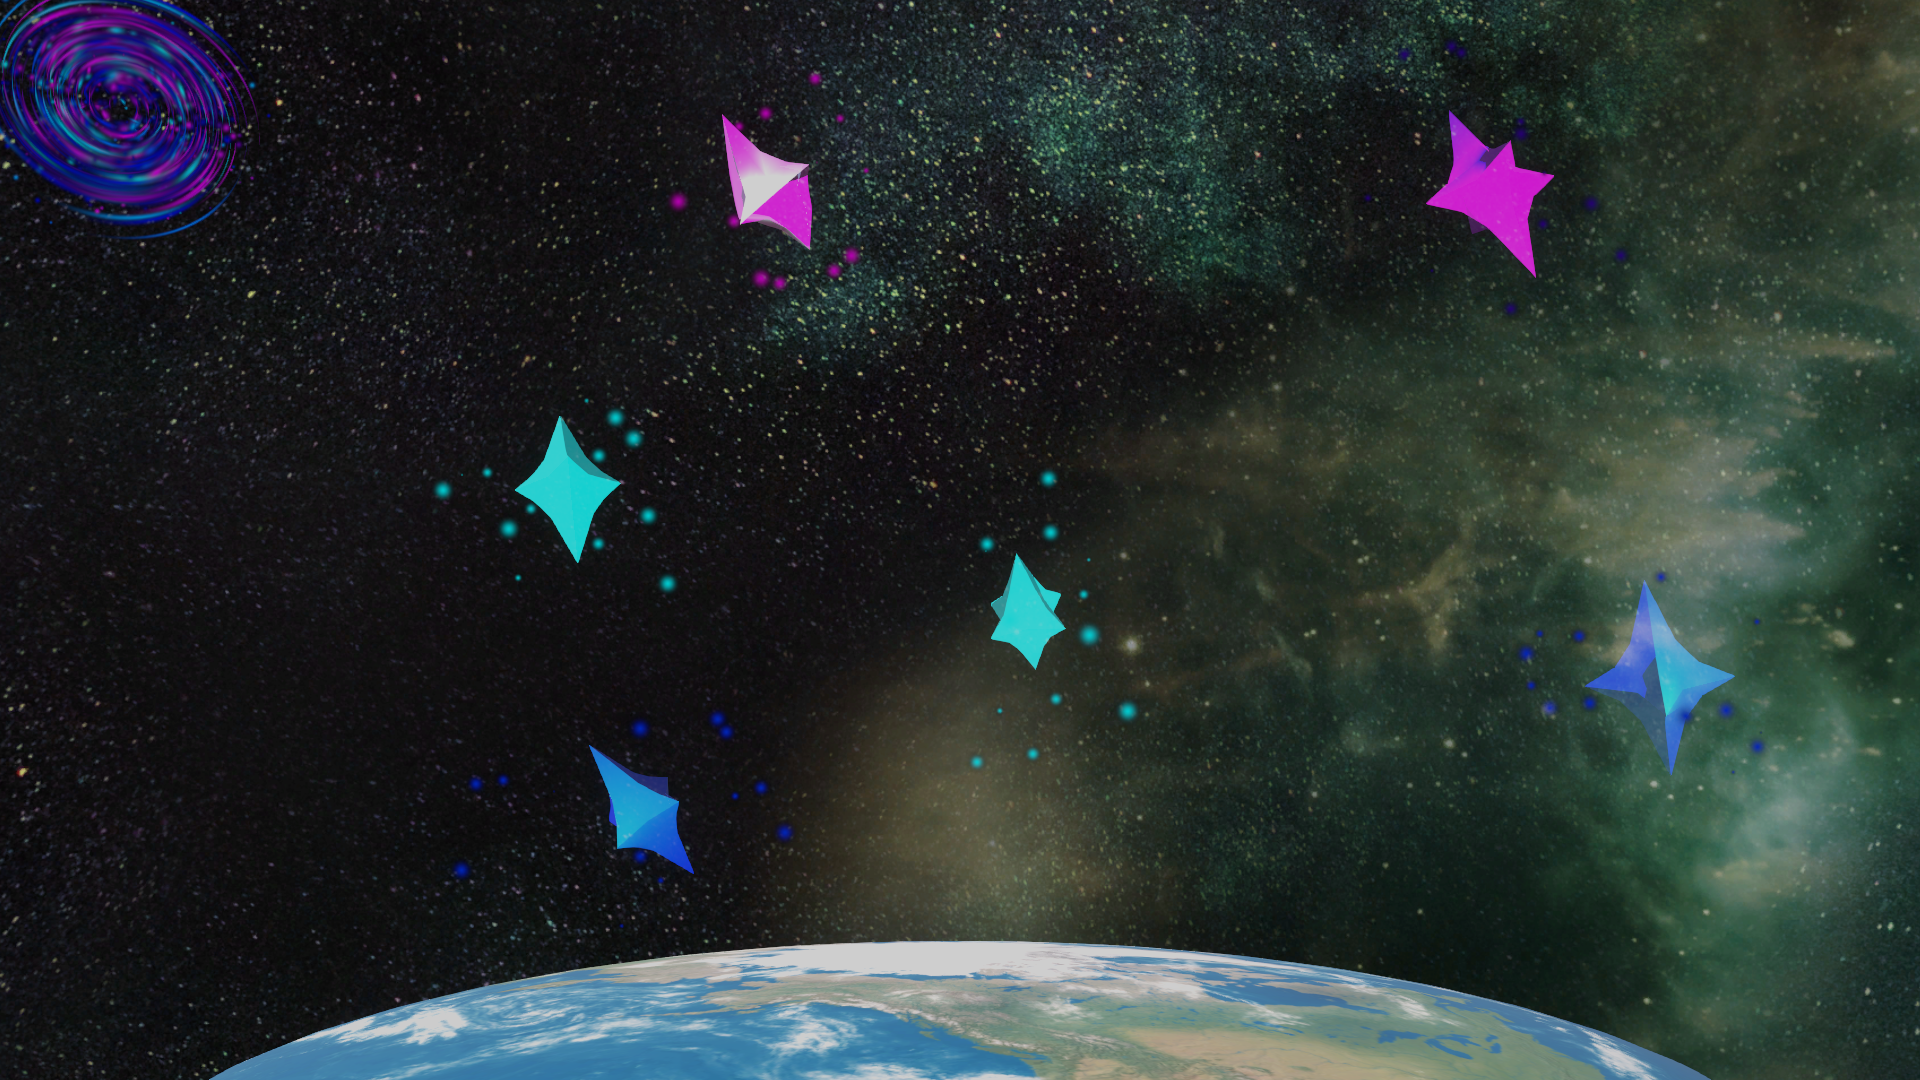
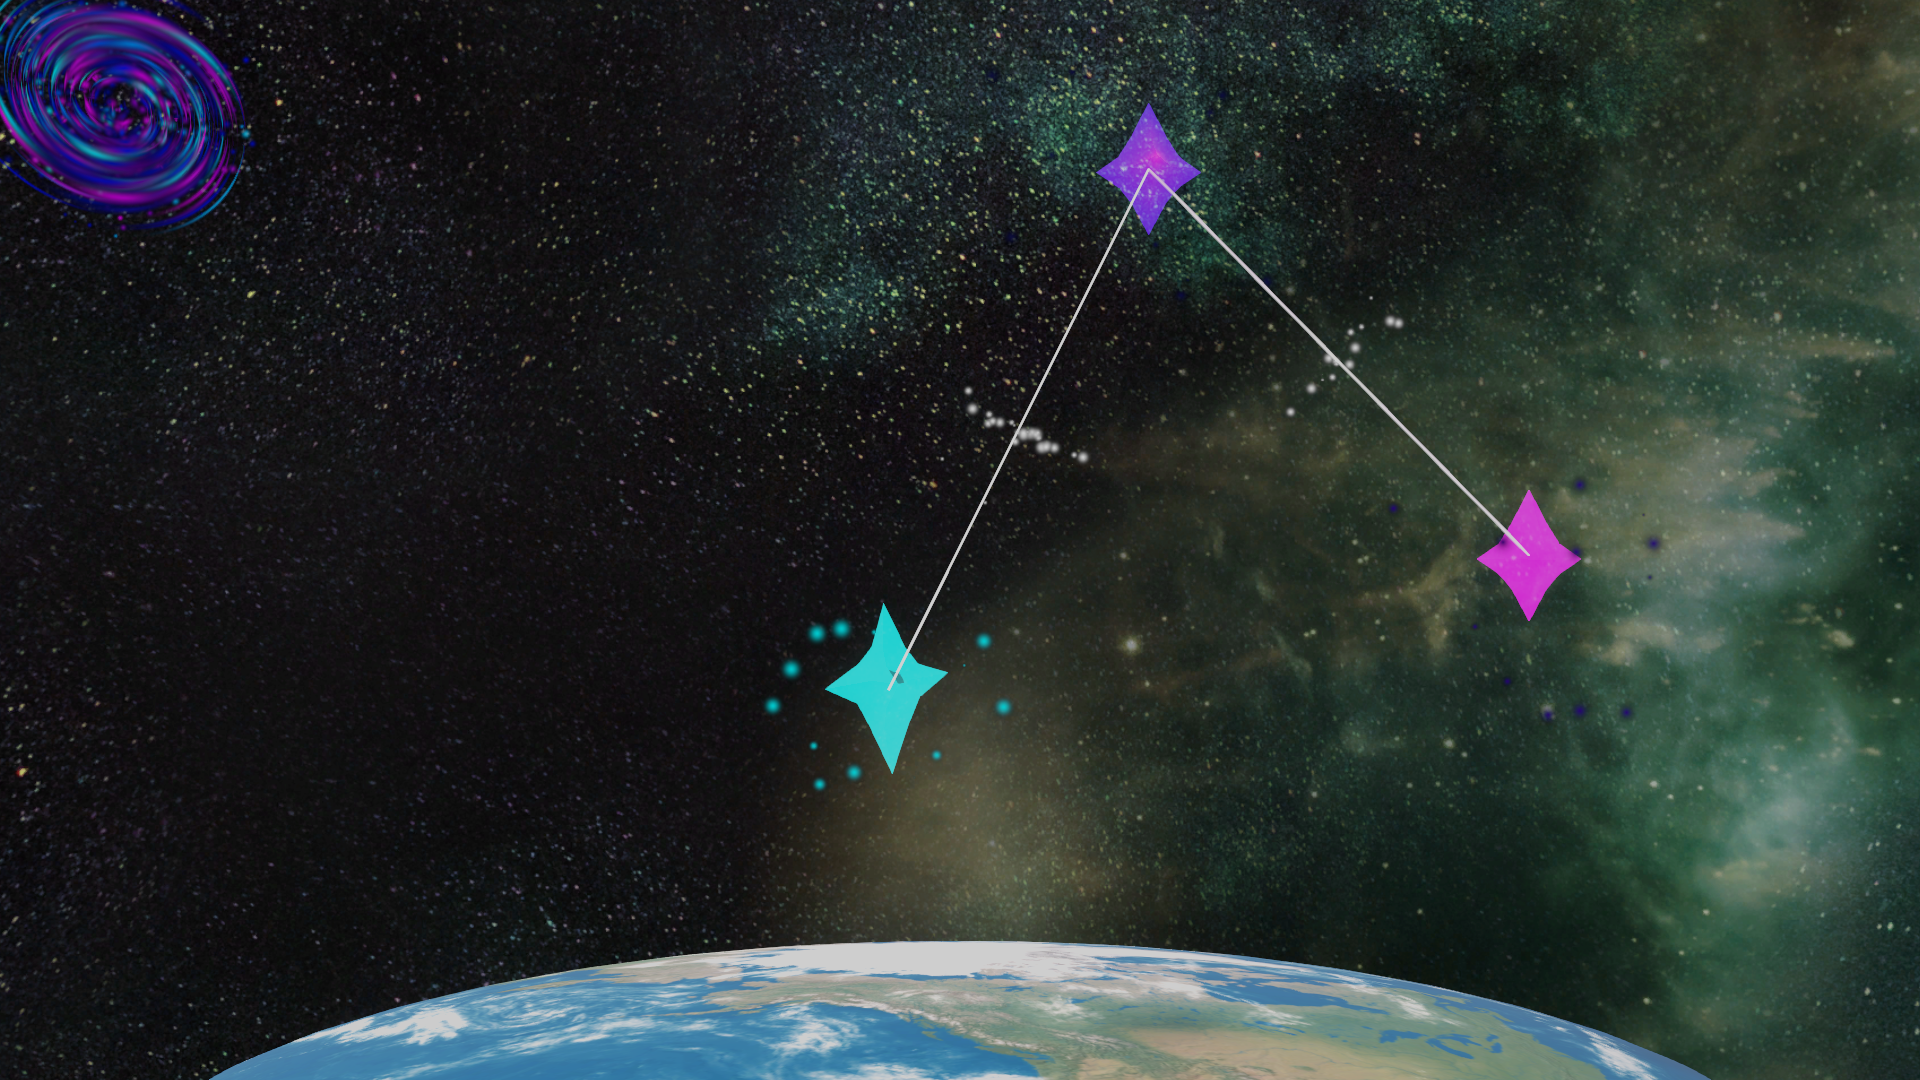
Crystal Linking polished
Links now appear in canvas, still need visual improvement

diff --git a/Assets/Scripts/CrystalMovable.cs b/Assets/Scripts/CrystalMovable.cs
@@ -35,9 +35,7 @@ public class CrystalMovable : MonoBehaviour
     public Animator animator;
 
     //Crystal Connection values
-    //[HideInInspector] 
-    public CrystalMovable connectedCrystal;
-    bool canConnect = false;
+    [HideInInspector] public CrystalMovable connectedCrystal;
     public GameObject crystalConnectEffect;
     GameObject connectEffect;
 
@@ -82,47 +80,58 @@ public class CrystalMovable : MonoBehaviour
 
     private void OnMouseDown()
     {
-        mousePosition = Input.mousePosition - GetMousePosition();
-        mouseClickTimer = Time.time + mouseClickTime; //Starting the mouse click timer
-        connectEffect = Instantiate(crystalConnectEffect, new Vector3(0, 0, 0), transform.rotation);
+        if (this.enabled)
+        {
+            mousePosition = Input.mousePosition - GetMousePosition();
+            mouseClickTimer = Time.time + mouseClickTime; //Starting the mouse click timer
+            connectEffect = Instantiate(crystalConnectEffect, new Vector3(0, 0, 0), transform.rotation);
+        }
     }
 
     private void OnMouseDrag()
     {
-        Vector3 mousePos = Camera.main.ScreenToWorldPoint(Input.mousePosition - mousePosition);
+        if (this.enabled)
+        {
+            Vector3 mousePos = Camera.main.ScreenToWorldPoint(Input.mousePosition - mousePosition);
         
-        //Ensuring the crystal stays within the screen bounds even if the player attempts to move it outside of them
-        if (mousePos.z < minXBound) { mousePos.z = minXBound; }
-        else if (mousePos.z > maxXBound) { mousePos.z = maxXBound; }
+            //Ensuring the crystal stays within the screen bounds even if the player attempts to move it outside of them
+            if (mousePos.z < minXBound) { mousePos.z = minXBound; }
+            else if (mousePos.z > maxXBound) { mousePos.z = maxXBound; }
 
-        if (mousePos.y < minYBound) { mousePos.y = minYBound; }
-        else if (mousePos.y > maxYBound) { mousePos.y = maxYBound; }
+            if (mousePos.y < minYBound) { mousePos.y = minYBound; }
+            else if (mousePos.y > maxYBound) { mousePos.y = maxYBound; }
 
-        transform.position = mousePos; //Moving the object
+            transform.position = mousePos; //Moving the object
 
-        connectedCrystal = FindNearestCrystal();
-        ConnectEffect();
+            connectedCrystal = FindNearestCrystal();
+            if (connectedCrystal != null) { ConnectEffect(); }
+
+        }
+        
     }
 
     private void OnMouseUp()
     {
         //If the mouse is down for less than 0.2 seconds, change the colour
         //if (Time.time < mouseClickTimer && moveComplete) { ColourCycle(); }
+        if (this.enabled)
+        { 
+            if (inDestructionArea) 
+            {
+                manager.canvasCrystals.Remove(this);
+                animator.SetBool("FlyingAway", true);
+                StartCoroutine(WaitAndDestroy());
+            }
 
-        if (inDestructionArea) 
-        {
-            manager.canvasCrystals.Remove(this);
-            animator.SetBool("FlyingAway", true);
-            StartCoroutine(WaitAndDestroy());
+            Destroy(connectEffect);
         }
-
-        Destroy(connectEffect);
 
         //Add code to calculate direction and velocity of crystal current position compared to previous position
     }
 
     IEnumerator WaitAndDestroy()
     {
+        this.enabled = false; //Disabling while flying away to prevent erroneous connections
         yield return new WaitForSeconds(2.0f);
         Destroy(gameObject);
     }
@@ -140,20 +149,32 @@ public class CrystalMovable : MonoBehaviour
     private CrystalMovable FindNearestCrystal()
     {
         //Iterates through all the crystal movable objects and returns the closest one
-        CrystalMovable[] crystals = FindObjectsByType<CrystalMovable>(FindObjectsSortMode.None);
-        float closestCrystal = 9999f;
-        CrystalMovable tempCrystal = null;
+        //CrystalMovable[] crystals = FindObjectsByType<CrystalMovable>(FindObjectsSortMode.None);
+        //List<CrystalMovable> crystals = ;
 
-        foreach (CrystalMovable crystal in crystals)
+        if (manager.canvasCrystals.Count > 1)
         {
-            float crystalDistance = Vector3.Distance(transform.position, crystal.transform.position);
-            if(crystalDistance < closestCrystal && crystal.transform != this.transform)
+            float closestCrystal = 9999f;
+            CrystalMovable tempCrystal = null;
+
+            foreach (CrystalMovable crystal in manager.canvasCrystals)
             {
-                closestCrystal = crystalDistance;
-                tempCrystal = crystal;
+                if (crystal.enabled)
+                {
+                    float crystalDistance = Vector3.Distance(transform.position, crystal.transform.position);
+
+                    if(crystalDistance < closestCrystal && crystal.transform != this.transform)
+                    {
+                        closestCrystal = crystalDistance;
+                        tempCrystal = crystal;
+                    }
+                }
             }
+            return tempCrystal;
         }
-        return tempCrystal;
+
+        //Returning null if no other crystals are on the canvas
+        return null;
     }
 
     private void ConnectEffect()
@@ -165,11 +186,11 @@ public class CrystalMovable : MonoBehaviour
 
         connectEffect.transform.position = effectPos;
 
-        Vector3 scaleChange = new Vector3(0.01f, 0.01f, crystalDistance);
+        Vector3 scaleChange = new Vector3(connectEffect.transform.localScale.x, connectEffect.transform.localScale.y, crystalDistance);
         connectEffect.transform.localScale = scaleChange;
         ParticleSystem connectParticles = connectEffect.GetComponentInChildren<ParticleSystem>();
         var shape = connectParticles.shape;
-        shape.scale = new Vector3(0.5f, 0.5f, (crystalDistance * 0.5f));
+        shape.scale = new Vector3(shape.scale.x, shape.scale.y, (crystalDistance * 0.5f));
 
         connectEffect.transform.LookAt(connectedCrystal.transform.position);
     }

diff --git a/Assets/Scripts/GameManager.cs b/Assets/Scripts/GameManager.cs
@@ -9,8 +9,7 @@ using static UnityEngine.ParticleSystem;
 
 public class GameManager : MonoBehaviour
 {
-    //[HideInInspector] 
-    public List<CrystalMovable> canvasCrystals; //List of all crystals on the canvas, used to turn them on and off
+    [HideInInspector] public List<CrystalMovable> canvasCrystals; //List of all crystals on the canvas, used to turn them on and off
     public GameObject snapShotButton;
     public GameObject uploadButton;
     public GameObject crystalActiveButton;
@@ -32,6 +31,7 @@ public class GameManager : MonoBehaviour
     }
 
     public List<CrystalColours> crystalColours = new List<CrystalColours>();
+    public List<GameObject> crystalConnections = new List<GameObject>();
 
     public void Start()
     {
@@ -64,6 +64,9 @@ public class GameManager : MonoBehaviour
             var pfxMain = particles.main;
             pfxMain.startColor = crystalColours[crystalIndex].particleColor;
             particles.Play();
+
+            //Find linked crystal and instantiate effect
+            if (crystal.connectedCrystal != null) { ConnectEffect(crystal, crystal.connectedCrystal); }
         }
 
         //Setting relevant buttons active and inactive
@@ -87,6 +90,11 @@ public class GameManager : MonoBehaviour
                 crystal.GetComponent<MeshRenderer>().material = crystalColours[crystal.colourIndex].oldMaterial;
                 crystal.crystalEffect.SetActive(false);
             }
+
+            //Destroying all the connection effects between crystals
+            foreach(GameObject connection in crystalConnections) { Destroy(connection); }
+
+            crystalConnections = new List<GameObject>();
         }
 
         //Setting relevant buttons active and inactive
@@ -95,6 +103,28 @@ public class GameManager : MonoBehaviour
         snapShotButton.SetActive(false);
         cameraPanButton.SetActive(true);
         uploadButton.SetActive(false);
+    }
+
+    private void ConnectEffect(CrystalMovable crystal1, CrystalMovable crystal2)
+    {
+        Vector3 effectPos = Vector3.Lerp(crystal1.transform.position, crystal2.transform.position, 0.5f);
+        //float direction = Vector3.SignedAngle(transform.position, connectedCrystal.transform.position, Vector3.up);
+
+        float crystalDistance = Vector3.Distance(crystal1.transform.position, crystal2.transform.position);
+
+        GameObject connectEffect = Instantiate(crystal1.crystalConnectEffect, crystal1.transform);
+
+        connectEffect.transform.position = effectPos;
+
+        Vector3 scaleChange = new Vector3(connectEffect.transform.localScale.x, connectEffect.transform.localScale.y, crystalDistance);
+        connectEffect.transform.localScale = scaleChange;
+        ParticleSystem connectParticles = connectEffect.GetComponentInChildren<ParticleSystem>();
+        var shape = connectParticles.shape;
+        shape.scale = new Vector3(shape.scale.x, shape.scale.y, (crystalDistance * 0.5f));
+
+        connectEffect.transform.LookAt(crystal2.transform.position);
+
+        crystalConnections.Add(connectEffect);
     }
 
     public void OpenGallery(string url)

diff --git a/Assets/Scripts/CrystalFloat.cs b/Assets/Scripts/CrystalFloat.cs
@@ -10,6 +10,8 @@ public class CrystalFloat : MonoBehaviour
     Vector3 startPos = new Vector3();
     Vector3 canvasPos = new Vector3();
 
+    bool waiting = false;
+
     [HideInInspector] public GameManager manager;
 
     public struct CrystalMotionProperties
@@ -45,7 +47,12 @@ public class CrystalFloat : MonoBehaviour
         {
             transform.position = Vector3.Lerp(startPos, canvasPos, lerpLevel);
             lerpLevel += Time.deltaTime;
-            StartCoroutine(WaitToActivate());
+
+            if (!waiting)
+            {
+                waiting = true;
+                StartCoroutine(WaitToActivate());
+            }
         }
     }
 

diff --git a/Assets/Scripts/CameraPan.cs b/Assets/Scripts/CameraPan.cs
@@ -48,7 +48,6 @@ public class CameraPan : MonoBehaviour
             rightButton.SetActive(true);
             captureButton.SetActive(false);
             lightsButton.SetActive(false);
-            Bin.SetActive(false);
 
             if (time > panTime) { panningToStream = false; }
         }
@@ -61,7 +60,6 @@ public class CameraPan : MonoBehaviour
             leftButton.SetActive(true);
             rightButton.SetActive(false);
             captureButton.SetActive(false);
-            Bin.SetActive(true);
             onCanvas = true;
 
             if (time > panTime) { panningToCanvas = false; }
